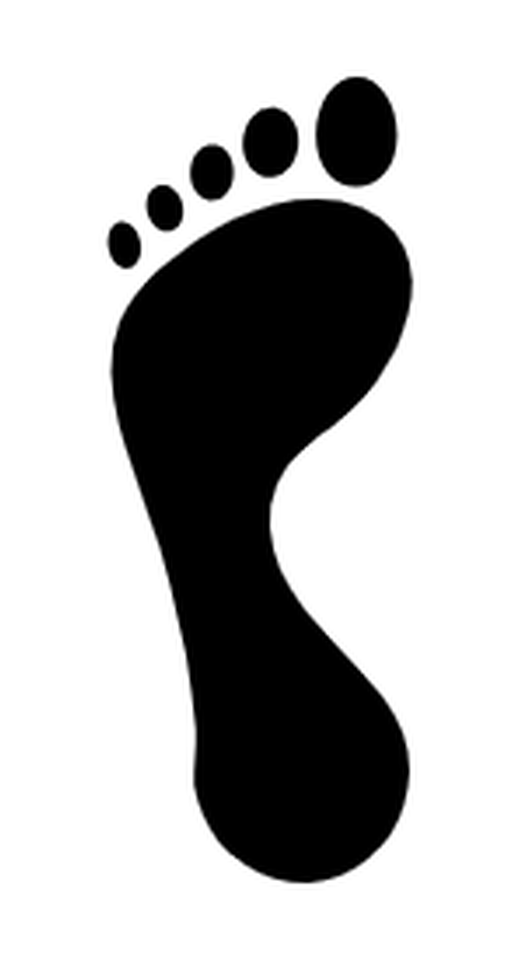
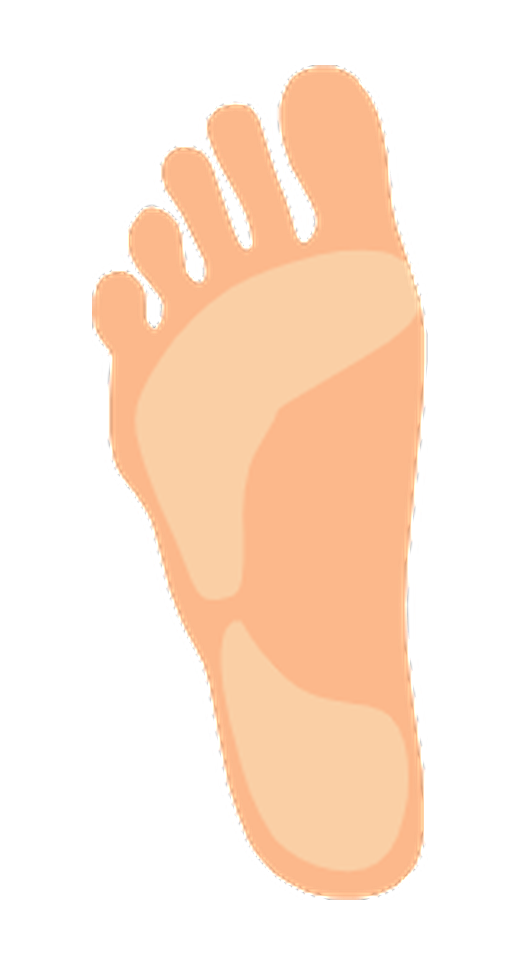
Update pressure map footprint template

diff --git a/myprosole_app/frontend/pressure_canvas/FootPressureCanvas.jsx b/myprosole_app/frontend/pressure_canvas/FootPressureCanvas.jsx
@@ -65,7 +65,8 @@ function drawPressureCanvas(canvas, foot, template, mask, maxPressure, showLabel
     const gradient = heatCtx.createRadialGradient(x, y, 0, x, y, radius);
 
     gradient.addColorStop(0, color.replace("rgb", "rgba").replace(")", `, ${alpha})`));
-    gradient.addColorStop(0.45, color.replace("rgb", "rgba").replace(")", `, ${alpha * 0.58})`));
+    gradient.addColorStop(0.62, color.replace("rgb", "rgba").replace(")", `, ${alpha * 0.72})`));
+    gradient.addColorStop(0.9, color.replace("rgb", "rgba").replace(")", `, ${alpha * 0.18})`));
     gradient.addColorStop(1, color.replace("rgb", "rgba").replace(")", ", 0)"));
 
     heatCtx.fillStyle = gradient;

diff --git a/myprosole_app/frontend/pressure_canvas/pressureColor.js b/myprosole_app/frontend/pressure_canvas/pressureColor.js
@@ -1,8 +1,8 @@
 const COLOR_STOPS = [
-  [0.0, [37, 99, 235]],
-  [0.38, [34, 197, 94]],
-  [0.68, [250, 204, 21]],
-  [1.0, [220, 38, 38]],
+  [0.0, [0, 87, 255]],
+  [0.32, [0, 210, 106]],
+  [0.62, [255, 230, 0]],
+  [1.0, [255, 31, 31]],
 ];
 
 function clamp(value, min, max) {
@@ -25,9 +25,9 @@ export function pressureColor(intensity) {
     }
   }
 
-  return "rgb(220, 38, 38)";
+  return "rgb(255, 31, 31)";
 }
 
 export function pressureAlpha(intensity) {
-  return 0.3 + 0.58 * clamp(Number.isFinite(intensity) ? intensity : 0, 0, 1);
+  return 0.52 + 0.43 * clamp(Number.isFinite(intensity) ? intensity : 0, 0, 1);
 }

diff --git a/myprosole_app/frontend/pressure_canvas/sensorLayout.js b/myprosole_app/frontend/pressure_canvas/sensorLayout.js
@@ -1,21 +1,21 @@
 export const SENSOR_LAYOUT = {
   heel: {
     label: "Ferse",
-    xPercent: 50,
-    yPercent: 78,
-    radiusPercent: 18,
+    xPercent: 51,
+    yPercent: 80,
+    radiusPercent: 21,
   },
   lateral_forefoot: {
     label: "Lateraler Vorfuss",
-    xPercent: 34,
-    yPercent: 30,
-    radiusPercent: 17,
+    xPercent: 40,
+    yPercent: 28,
+    radiusPercent: 22,
   },
   medial_forefoot: {
     label: "Medialer Vorfuss",
-    xPercent: 66,
+    xPercent: 62,
     yPercent: 23,
-    radiusPercent: 18,
+    radiusPercent: 23,
   },
 };
 

diff --git a/myprosole_app/core/domain/visualization.py b/myprosole_app/core/domain/visualization.py
@@ -35,9 +35,9 @@ REGION_SUMMARY_KEYS = {
 
 # Percent coordinates on the fixed upright template. The right side mirrors x.
 SENSOR_LAYOUT = {
-    HEEL: {"xPercent": 50.0, "yPercent": 78.0, "radiusPercent": 18.0},
-    LATERAL_FOREFOOT: {"xPercent": 34.0, "yPercent": 30.0, "radiusPercent": 17.0},
-    MEDIAL_FOREFOOT: {"xPercent": 66.0, "yPercent": 23.0, "radiusPercent": 18.0},
+    HEEL: {"xPercent": 51.0, "yPercent": 80.0, "radiusPercent": 21.0},
+    LATERAL_FOREFOOT: {"xPercent": 40.0, "yPercent": 28.0, "radiusPercent": 22.0},
+    MEDIAL_FOREFOOT: {"xPercent": 62.0, "yPercent": 23.0, "radiusPercent": 23.0},
 }
 
 
@@ -258,10 +258,10 @@ def build_pressure_canvas_html(
 
     function pressureColor(intensity) {{
       const stops = [
-        [0.00, [37, 99, 235]],
-        [0.38, [34, 197, 94]],
-        [0.68, [250, 204, 21]],
-        [1.00, [220, 38, 38]],
+        [0.00, [0, 87, 255]],
+        [0.32, [0, 210, 106]],
+        [0.62, [255, 230, 0]],
+        [1.00, [255, 31, 31]],
       ];
       const t = clamp(Number.isFinite(intensity) ? intensity : 0, 0, 1);
       for (let index = 1; index < stops.length; index += 1) {{
@@ -275,7 +275,7 @@ def build_pressure_canvas_html(
           return `rgb(${{mixed[0]}}, ${{mixed[1]}}, ${{mixed[2]}})`;
         }}
       }}
-      return "rgb(220, 38, 38)";
+      return "rgb(255, 31, 31)";
     }}
 
     function loadImage(src) {{
@@ -327,9 +327,10 @@ def build_pressure_canvas_html(
         const radius = (sensor.radiusPercent / 100) * Math.min(width, height);
         const gradient = heatCtx.createRadialGradient(x, y, 0, x, y, radius);
         const color = pressureColor(intensity);
-        const alpha = 0.30 + 0.58 * intensity;
+        const alpha = 0.52 + 0.43 * intensity;
         gradient.addColorStop(0, color.replace("rgb", "rgba").replace(")", `, ${{alpha}})`));
-        gradient.addColorStop(0.45, color.replace("rgb", "rgba").replace(")", `, ${{alpha * 0.58}})`));
+        gradient.addColorStop(0.62, color.replace("rgb", "rgba").replace(")", `, ${{alpha * 0.72}})`));
+        gradient.addColorStop(0.9, color.replace("rgb", "rgba").replace(")", `, ${{alpha * 0.18}})`));
         gradient.addColorStop(1, color.replace("rgb", "rgba").replace(")", ", 0)"));
         heatCtx.fillStyle = gradient;
         heatCtx.beginPath();

diff --git a/myprosole_app/assets/README.md b/myprosole_app/assets/README.md
@@ -1,7 +1,8 @@
 # Assets
 
 `foot_template.png` is a fixed PNG template used by the pressure-map canvas.
-It is derived from the user-provided footprint design used for the pressure map.
+It is derived from the left footprint in the user-provided double-foot design;
+the canvas mirrors it for the right foot.
 
 `foot_mask.png` is the alpha mask derived from the template image and is used
 only to clip the transparent heatmap overlay inside the footprint shape.
